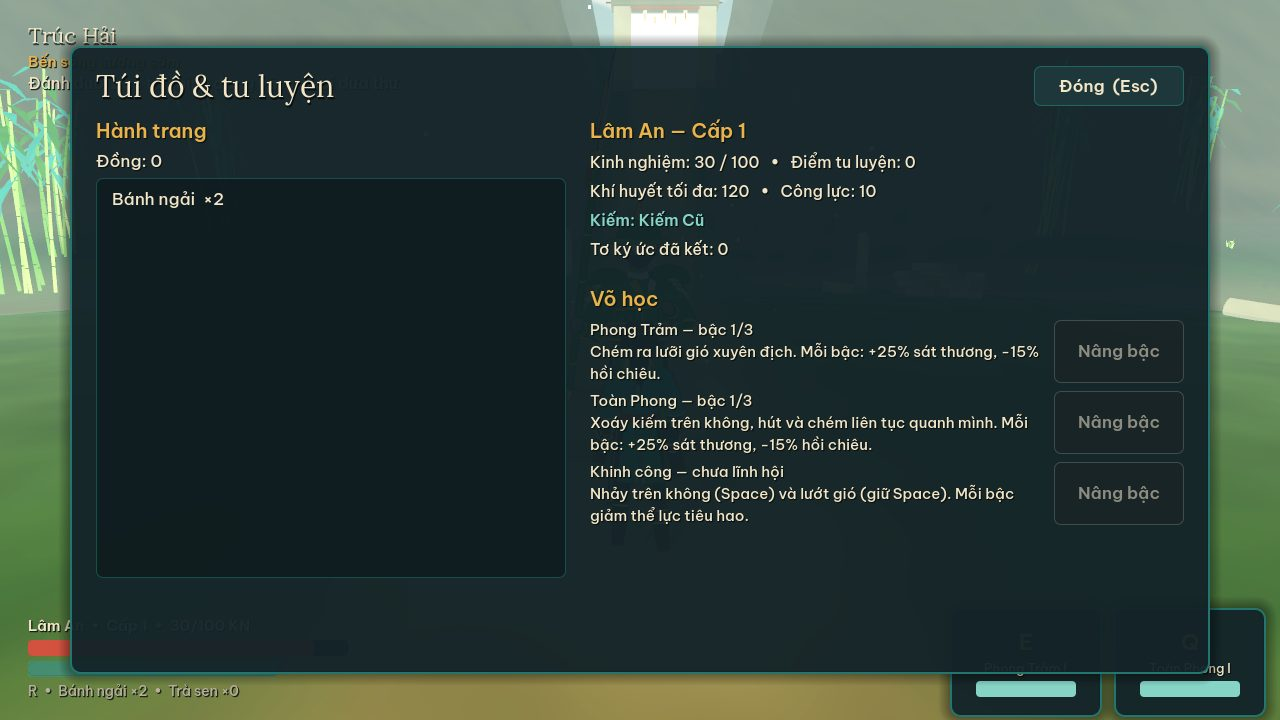
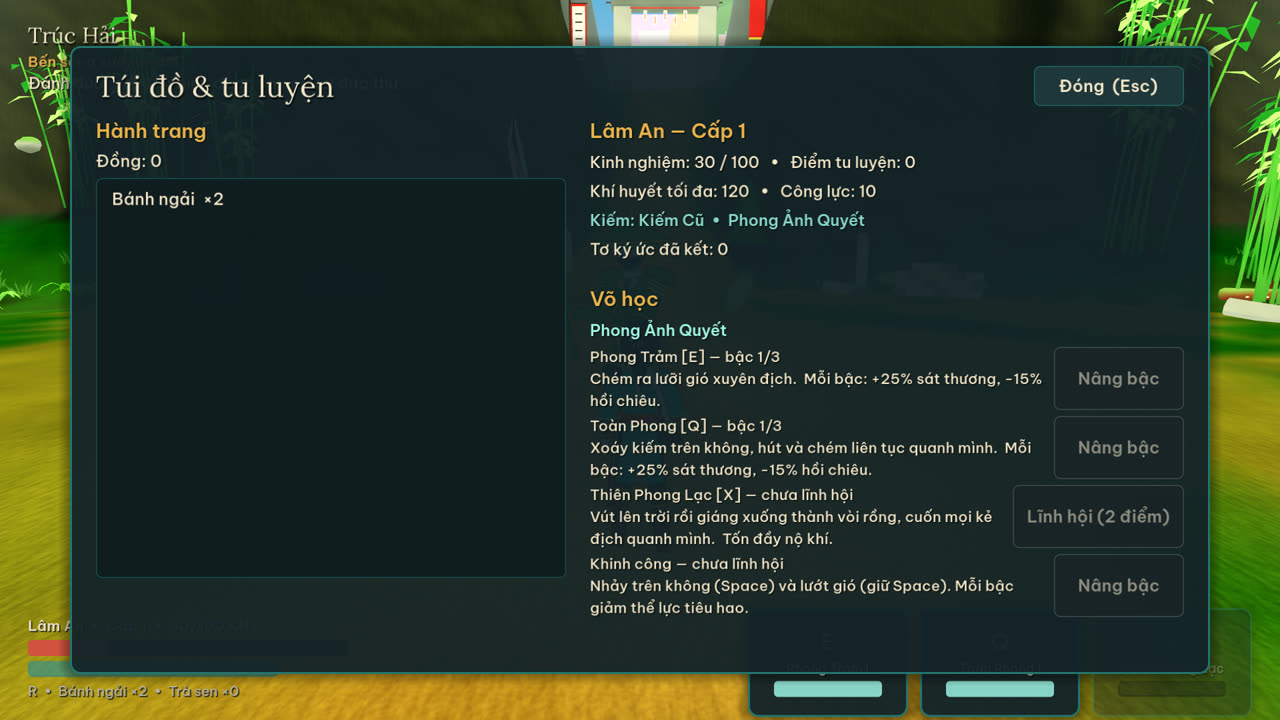
Docs and screenshots for the web build, elemental styles and long-term systems
- game-design: elemental style table, long-term loops (Endless Trial, World Tiers,
  Kỳ Ngộ with published rates and pity, rolled swords, outfits, daily missions);
  replaces the old "no gacha" note now that the owner approved it.
- architecture: web target, new combat, profile and retention modules, save v3 and
  the shared profile, how stats, the Trial pocket, tiers and the gacha fit together.
- validation: 185/185 across four suites, web build size and Chromium smoke result,
  Vercel previews; progress: new milestones and known limits.
- Screenshots re-rendered, including Kỳ Ngộ, the Trial, armory, daily missions and
  World Tier; the move sheet now shows ten moves. The preview clears the live sword
  trail before posing moves, and the gacha test seeds its profile RNG.

Claude-Session: https://claude.ai/code/session_018HWxVq7Mo8cUy4Wb7m4WHu

diff --git a/docs/architecture.md b/docs/architecture.md
@@ -1,24 +1,25 @@
 # Kiến trúc
 
-Godot 4.7.2, GDScript có kiểu tĩnh, renderer GL Compatibility, bàn phím + chuột, mục tiêu Windows desktop. Không dùng autoload: `scenes/main.tscn` chỉ có node gốc `main.gd`, mọi hệ thống được tạo bằng code và nối với nhau ở đó. Nội dung (nhiệm vụ, hội thoại, vật phẩm, địch, bản đồ) nằm trong JSON dưới `data/`, code chỉ chứa luật.
+Godot 4.7.2, GDScript có kiểu tĩnh, renderer GL Compatibility (một renderer cho cả hai nền tảng), bàn phím + chuột, mục tiêu Windows desktop và trình duyệt (bản Web không luồng, host tĩnh trên Vercel). Không dùng autoload: `scenes/main.tscn` chỉ có node gốc `main.gd`, mọi hệ thống được tạo bằng code và nối với nhau ở đó. Nội dung (nhiệm vụ, hội thoại, vật phẩm, địch, bản đồ) nằm trong JSON dưới `data/`, code chỉ chứa luật.
 
 ## Thành phần
 
 | Nhóm | File | Trách nhiệm |
 |---|---|---|
 | Gốc | `scripts/main.gd` | Luồng màn hình chính → chơi; nối người chơi, thế giới, thực thể, nhiệm vụ, hội thoại, UI, âm thanh; phần thưởng, chết/hồi sinh, lưu/tải, thoát game |
-| Dữ liệu | `scripts/core/content_db.gd`, `game_state.gd`, `user_settings.gd` | Đọc JSON có cache; trạng thái người chơi (cờ, túi đồ, nhiệm vụ, cấp, kỹ năng, kiếm, checkpoint); thiết lập lưu riêng ở `user://settings.cfg` |
+| Dữ liệu | `scripts/core/content_db.gd`, `game_state.gd`, `user_settings.gd` | Đọc JSON có cache; trạng thái người chơi (cờ, túi đồ, nhiệm vụ, cấp, kỹ năng, kiếm, cảnh giới, checkpoint); thiết lập lưu riêng ở `user://settings.cfg`; preset chất lượng Thấp/Trung bình/Cao |
+| Hồ sơ & dài hạn | `scripts/core/player_profile.gd`, `player_stats.gd`, `gacha.gd`, `missions.gd` | Hồ sơ dùng chung mọi bản lưu (`user://profile.json`): tiền, bảo hiểm, kho kiếm, trang phục, kỷ lục Ải, nhiệm vụ ngày, trạng thái RNG; gộp chỉ số kiếm + phúc lành; quay Kỳ Ngộ và mở rương; nhiệm vụ ngày và điểm danh. Các hàm tĩnh, không chạm scene tree |
 | Người chơi | `scripts/player_controller.gd`, `scripts/player/camera_rig.gd` | Máy trạng thái loading/move/dodge/action/hit/dead/disabled, đệm phím, thể lực, khinh công, khóa mục tiêu; camera SpringArm có rung theo "trauma" |
-| Chiến đấu | `scripts/combat/combat.gd`, `projectile.gd`, `vfx.gd` | Bảng đòn đánh (gộp thời điểm từ `data/anim_timings.json`), quét cung bằng `PhysicsShapeQueryParameters3D`, gói sát thương, lớp va chạm, đạn gió, hiệu ứng |
+| Chiến đấu | `scripts/combat/combat.gd`, `style_book.gd`, `skill_runner.gd`, `area_effect.gd`, `status_effects.gd`, `projectile.gd`, `vfx.gd`, `sword_trail.gd` | Bảng đòn đánh từ `data/attacks.json` (gộp thời điểm từ `data/anim_timings.json`), quét cung bằng `PhysicsShapeQueryParameters3D`, gói sát thương mang nguyên tố và trạng thái; 5 hệ kiếm E/Q/X chạy theo trường `kind` (sweep, dash, projectile, chain, strikes, nova, field); trạng thái gió/ướt/tê/thiêu/lạnh/đóng băng; đạn, hiệu ứng, vệt kiếm |
 | Nhân vật | `scripts/characters/character_visual.gd` | Dựng `AnimationTree` (BlendSpace1D di chuyển, Transition trạng thái, OneShot đòn đánh), gắn vũ khí vào `BoneAttachment3D`, nháy trắng khi trúng đòn, hit-stop |
-| Địch | `scripts/enemies/enemy.gd`, `boar.gd`, `guardian.gd` | AI theo trạng thái, giới hạn số kẻ tấn công cùng lúc mỗi trại, NavigationAgent hoặc lái tránh vật cản, kéo về khi đi quá xa; heo húc; Trúc Tướng hai pha |
-| Thế giới | `scripts/world/world_layout.gd`, `scripts/world_manager.gd`, `scripts/world_chunk.gd` | Hàm độ cao/màu/vùng từ `layout.json`; stream vùng 32 m (5 × 5 quanh người chơi), tính mesh trên `WorkerThreadPool`, dựng node trên main thread |
-| Thực thể | `scripts/world/entity_spawner.gd`, `npc.gd`, `interactable.gd`, `arena.gd`, `prop_placer.gd`, `water_bodies.gd`, `backdrop.gd` | Sinh/hủy NPC, địch, vật tương tác theo khoảng cách và điều kiện; trigger, điểm khám phá, bake navmesh theo vùng giao tranh; đấu trường; đạo cụ; sông suối; núi nền |
+| Địch | `scripts/enemies/enemy.gd`, `boar.gd`, `guardian.gd`, `enemy_scaler.gd` | AI theo trạng thái, giới hạn số kẻ tấn công cùng lúc mỗi trại, NavigationAgent hoặc lái tránh vật cản, kéo về khi đi quá xa; heo húc; Trúc Tướng hai pha; tăng sức mạnh theo cảnh giới/đợt và biến thành tinh anh trên bản sao dữ liệu riêng |
+| Thế giới | `scripts/world/world_layout.gd`, `scripts/world_manager.gd`, `scripts/world_chunk.gd` | Hàm độ cao/màu/vùng từ `layout.json`; stream vùng 32 m (5 × 5 quanh người chơi, preset Cao 7 × 7), tính mesh và rải thực vật theo `data/world/flora.json` trên `WorkerThreadPool`, dựng node trên main thread |
+| Thực thể | `scripts/world/entity_spawner.gd`, `npc.gd`, `interactable.gd`, `arena.gd`, `prop_placer.gd`, `water_bodies.gd`, `backdrop.gd`, `trial_director.gd` | Sinh/hủy NPC, địch, vật tương tác theo khoảng cách và điều kiện (theo cảnh giới: `tier_dead:<cấp>:<id>`); trigger, điểm khám phá, bake navmesh theo vùng giao tranh; đấu trường; đạo cụ; sông suối; núi đá vôi nền; Ải Vô Tận (đợt, phúc lành, rương) |
 | Nhiệm vụ | `scripts/quests/quest_manager.gd` | Bắt đầu/tiến độ/hoàn thành theo sự kiện chuỗi (`talk:`, `reach:`, `kill:`, `interact:`, `camp_clear:`, `flag:`, `have:`…), điều kiện, điểm đánh dấu |
-| Giao diện | `scripts/game_hud.gd`, `scripts/ui/menus.gd`, `map_view.gd`, `ui_theme.gd` | HUD, hội thoại, thị kiến, la bàn mục tiêu; màn hình chính, tạm dừng, bản đồ, nhật ký, túi đồ, thiết lập, ghi công |
+| Giao diện | `scripts/game_hud.gd`, `scripts/ui/menus.gd`, `retention_panels.gd`, `map_view.gd`, `ui_theme.gd` | HUD (3 ô E/Q/X, nộ khí), hội thoại, thị kiến, la bàn mục tiêu; màn hình chính, tạm dừng, bản đồ, nhật ký, túi đồ, thiết lập, ghi công; Kỳ Ngộ, kho kiếm & trang phục, nhiệm vụ ngày, cảnh giới, chọn phúc lành |
 | Âm thanh | `scripts/audio/audio_director.gd` | Bus Music/SFX/Ambience/UI, chuyển nhạc theo vùng và mức chiến đấu, âm nền, tiếng sông theo khoảng cách, pool phát 2D/3D có biến thể |
-| Hình ảnh | `scripts/render/toon.gd`, `atmosphere.gd`, `shaders/*.gdshader` | Shader toon (bậc sáng, viền rim, nhiễu nét vẽ, cây đung đưa), outline đảo mặt, nước, bầu trời, tường gió; sương/nắng theo vùng |
-| Lưu game | `scripts/save_store.gd` | JSON schema v2, kiểm tra kiểu, migrate v1, ghi qua `.tmp`, giữ `.bak` |
+| Hình ảnh | `scripts/render/toon.gd`, `atmosphere.gd`, `ambient_fx.gd`, `shaders/*.gdshader` | Shader toon (bậc sáng, viền rim, nhiễu nét vẽ, màu đỉnh/instance, nắng lốm đốm dưới tán, cây đung đưa), outline đảo mặt, nước fresnel có bọt, trời mây cel, núi nền, tường gió; sương theo độ sâu/độ cao, glow, chỉnh màu; hạt bay theo vùng |
+| Lưu game | `scripts/save_store.gd` | JSON schema v3, kiểm tra kiểu, migrate v1/v2, ghi qua `.tmp`, giữ `.bak`; cùng cơ chế cho hồ sơ |
 
 ## Quy ước
 
@@ -31,12 +32,21 @@ Godot 4.7.2, GDScript có kiểu tĩnh, renderer GL Compatibility, bàn phím + 
 
 - Bản đồ hữu hạn, biên x ∈ [−132, 132], z ∈ [−462, 100]; ngoài biên là tường vô hình và núi nền.
 - Độ cao = đường cong theo z + nhiễu + nâng mép (bão hòa bằng `tanh`) + sống núi → làm phẳng khu đặt nhà/đấu trường → hạ đường đi → lòng sông → khe vực. Mép vùng khớp nhau vì mọi đỉnh lấy từ tọa độ thế giới.
-- `WorldChunk.compute()` là hàm tĩnh, không chạm scene tree, chạy trên `WorkerThreadPool` (tối đa 2 việc). `apply()` tạo mesh, collider, MultiMesh cây/cỏ/đá trên main thread. Người chơi đứng yên khi vùng dưới chân chưa sẵn sàng.
+- `WorldChunk.compute()` là hàm tĩnh, không chạm scene tree, chạy trên `WorkerThreadPool` (tối đa 2 việc; bản Web không luồng chạy tuần tự từng việc mỗi khung). Mỗi loài cây có RNG riêng nên đổi preset chỉ làm thưa cỏ hoa, cây có collider không dời chỗ; vùng cấm quanh NPC/rương/miếu/đạo cụ (`keepouts`). `apply()` tạo mesh, collider, MultiMesh cây/cỏ/đá trên main thread. Người chơi đứng yên khi vùng dưới chân chưa sẵn sàng.
 - Navmesh không phủ toàn bản đồ: mỗi khu giao tranh (`navzone`) được parse collider đã stream và bake bất đồng bộ khi người chơi đến gần 80 m.
 
 ## Lưu game
 
-`user://world_save.json`, schema v2: seed, vị trí, hướng, checkpoint, toàn bộ `GameState`. Giới hạn 1 MiB (thay cho 16 KB của bản nền — dữ liệu cờ/nhiệm vụ lớn hơn nhiều). Save v1 của bản nền được migrate (trạm đèn → Miếu Gió làng, gắn cờ `migrated_from_v1`), bản cũ giữ trong `.bak`. Tải save sửa lỗi vị trí nằm trong nước/vực/ngoài biên về checkpoint.
+`user://world_save.json`, schema v3: seed, vị trí, hướng, checkpoint, toàn bộ `GameState` (thêm danh sách kiếm, kiếm kho đang dùng, cảnh giới hiện tại/cao nhất). Giới hạn 1 MiB. Save v1 của bản nền và v2 đều được migrate, bản cũ giữ trong `.bak`. Tải save sửa lỗi vị trí nằm trong nước/vực/ngoài biên/đấu trường Ải về checkpoint. Trên web, `user://` là IndexedDB; game tự lưu mỗi 60 giây và khi mất focus.
+
+`user://profile.json` (hồ sơ v1) dùng chung cho mọi bản lưu vì Kỳ Ngộ mở được từ màn hình chính trước khi tải save. RNG của gacha lưu seed/state dạng chuỗi (số 64 bit), nên tải lại không quay lại được kết quả. Test luôn dùng `profile_path` riêng, không chạm hồ sơ thật.
+
+## Hệ thống dài hạn
+
+- **Chỉ số:** `PlayerStats.compute(kiếm kho, phúc lành)` → `GameState.stats`; rỗng là trung tính, nên số liệu cốt truyện giữ nguyên. Đọc trong `attack_power()`, `PlayerController.strike` (bạo kích, đòn thường, nguyên tố, tỉ lệ trạng thái, nộ khí), `_try_skill` (hồi chiêu), `take_damage` (giảm sát thương).
+- **Ải Vô Tận:** `TrialDirector` có `Arena` riêng tại "pocket" (0, 230) — một khu bằng phẳng ngoài tường biên (`WorldLayout.in_pocket`), chỉ tới được bằng dịch chuyển. Địch của Ải không nằm trong `EntitySpawner`, nên không ghi `dead:`/`camp_kills`. Chết trong Ải rẽ nhánh ở `_on_player_died`; lưu bị từ chối trong lượt.
+- **Cảnh giới:** `on_enemy_spawned` gọi `EnemyScaler` với hệ số từ `world_tiers.json`; boss dùng `boss_alive()` theo cấp.
+- **Gacha:** `Gacha.roll` là hàm thuần trên bản ghi bảo hiểm; tỉ lệ tổng hợp tính giải tích (`consolidated_ssr`) để công khai và để test 200.000 lượt đối chiếu.
 
 ## Mở rộng
 

diff --git a/docs/game-design.md b/docs/game-design.md
@@ -39,12 +39,25 @@ Mỗi nhiệm vụ có nguyên nhân, kết quả, phần thưởng và nhiệm 
 | Trọng kích | Giữ chuột trái 0,4 s; tốn thể lực, phá thế đỡ |
 | Né | Shift; có khung bất tử 0,03–0,34 s |
 | Đỡ / phản đòn | Chuột phải; bấm đúng lúc đòn tới (0,2 s đầu) để phản, làm địch choáng |
-| Phong Trảm | E; lưỡi gió bay xa (đạn) |
-| Toàn Phong | Q; xoáy kiếm quanh người, nhiều lần trúng |
+| Kiếm thức | E và Q: hai thức của hệ kiếm đang cầm (có hồi chiêu); X: tuyệt kỹ, tốn đầy thanh nộ khí |
 | Khóa mục tiêu | Chuột giữa / T |
 | Khinh công | Space trên không để bật nhảy; giữ Space khi rơi để lướt |
 
-Hệ thống có thể lực, hitbox/hurtbox theo cung quét, báo trước đòn đánh (vòng đỏ dưới đất), hit-stop, rung camera (giảm được trong cài đặt), số sát thương.
+Hệ thống có thể lực, hitbox/hurtbox theo cung quét, báo trước đòn đánh (vòng đỏ dưới đất), hit-stop, rung camera (giảm được trong cài đặt), số sát thương, vệt kiếm màu theo hệ.
+
+### Ngũ hành kiếm quyết
+
+Mỗi thanh kiếm thuộc một hệ; hệ quyết định ba thức E/Q/X (`data/styles.json`, `data/attacks.json`). Nộ khí (0–100) tăng khi đánh trúng, phản đòn và bị đánh; tuyệt kỹ X làm chậm thời gian một nhịp và bất tử tới khi ra đòn.
+
+| Hệ | Kiếm | E | Q | X | Trạng thái |
+|---|---|---|---|---|---|
+| Phong Ảnh Quyết | Kiếm Cũ, Thanh Trúc, Phong Ngân | Phong Trảm | Toàn Phong | Thiên Phong Lạc | Gió cuốn |
+| Thủy Nguyệt Quyết | Thủy Nguyệt Kiếm | Lưu Thủy Trảm | Xoáy Nước | Đại Hải Triều | Ướt |
+| Lôi Ảnh Quyết | Lôi Minh Kiếm | Lôi Thiểm | Lôi Võng | Thiên Lôi Giáng | Tê liệt |
+| Viêm Dương Quyết | Xích Viêm Kiếm | Viêm Luân | Hỏa Long Toàn | Nhật Viêm Trảm | Thiêu đốt |
+| Hàn Sương Quyết | Hàn Sương Kiếm | Băng Tiễn | Sương Giá Trận | Hàn Băng Thiên Kiếm | Lạnh cóng, 3 lớp thì đóng băng |
+
+Có kiếm của hệ nào thì học được E và Q của hệ đó; X học bằng 2 điểm tu luyện khi đã có Q. Boss kháng trạng thái và không bị đóng băng.
 
 Kẻ địch:
 
@@ -57,12 +70,24 @@ Chưa có: địch bắn xa, địch khiên nặng, boss hai pha cuối chương
 ## Phát triển nhân vật
 
 - Lên cấp theo bảng `XP_CURVE` (`scripts/core/game_state.gd`); mỗi cấp +14 máu, +1,5 công và 1 điểm tu luyện để nâng kỹ năng (tối đa bậc 3) trong Túi đồ.
-- Kiếm: Kiếm Cũ (10) → Thanh Trúc Kiếm (16) → Phong Ngân Kiếm (24).
+- Kiếm cốt truyện: Kiếm Cũ (10) → Thanh Trúc Kiếm (16) → Phong Ngân Kiếm (24). Bốn kiếm nguyên tố (26–27) nhận khi lần đầu vượt đợt 5, 10, 15, 20 của Ải Vô Tận; bản có độ hiếm và chỉ số phụ đến từ Kỳ Ngộ và rương thưởng.
 - Hồi máu: Bánh ngải, Trà sen (phím R). Miếu Gió hồi đầy máu, làm điểm hồi sinh, lưu tự động và đặt lại trại địch.
 - Vật phẩm nhiệm vụ / chìa khóa: thư, chuông gió, nhật ký, Lông vũ gió, Tơ ký ức, Ngọc phong ấn.
 
-Không có gacha. Nếu muốn thêm cần chủ dự án duyệt trước.
+## Chơi dài hạn
+
+Chủ dự án đã duyệt (10/2026) thêm các vòng lặp dưới đây. Cốt truyện không đổi; mọi phần thưởng chỉ dùng tiền trong game.
+
+- **Ải Vô Tận** (`data/trial.json`): bia đá cạnh Miếu Gió làng, mở sau "Làng quên tên". Đấu trường trên đỉnh núi ngoài tường thung lũng. Mỗi đợt đông và mạnh hơn (+12% máu, +6% sát thương mỗi đợt), tinh anh từ đợt 3, Trúc Tướng mỗi 5 đợt. Sau mỗi đợt chọn 1 trong 3 phúc lành (công lực, bạo kích, giảm sát thương, hồi chiêu…). Gục ngã hoặc rời Ải đều nhận đủ Ngọc Gió, Đồng, kinh nghiệm đã tích lũy; rương thưởng mỗi 5 đợt. Không lưu game giữa lượt, không ghi cờ cốt truyện.
+- **Cảnh giới thế giới** (`data/world_tiers.json`): mở sau đoạn chơi mẫu, cấp 1–5. Địch và Trúc Tướng xuất hiện lại với máu ×1,7–7,5, sát thương ×1,35–3,2, nhiều kinh nghiệm và Đồng hơn, có tinh anh mang 1–3 ấn (`data/elites.json`). Hạ Trúc Tướng ở cấp cao nhất để mở cấp kế tiếp, nhận Ngọc Gió và Rương Cảnh Giới. Cấp 0 giữ nguyên trò chơi gốc.
+- **Kỳ Ngộ** (`data/gacha.json`): banner ở màn hình chính và menu tạm dừng. Tỉ lệ Cực phẩm 1,5% (≈2,4% tính cả bảo hiểm), Hiếm 10%, Thường 88,5%. Bảo hiểm tăng dần từ lượt 60, chắc chắn ở lượt 70; mỗi 10 lượt chắc chắn có Hiếm. Cực phẩm 50% ra kiếm nổi bật, trượt thì lần sau chắc chắn. Màn hình công khai tỉ lệ, bảo hiểm và 50 lượt gần nhất. Trang phục trùng đổi thành Mảnh Kỳ Ngộ để đổi phần thưởng cố định.
+- **Ngọc Gió** chỉ có từ Ải Vô Tận, boss cảnh giới, nhiệm vụ ngày và điểm danh 7 ngày; lần chơi đầu tặng đủ một lượt ×10. Không có giao dịch tiền thật.
+- **Kiếm có chỉ số** (`data/affixes.json`): Thường/Hiếm/Cực phẩm có 1/2/3 dòng (công lực, bạo kích, sát thương bạo kích, sát thương nguyên tố, tỉ lệ trạng thái, giảm hồi chiêu, nộ khí) và +0/10/20% công lực gốc.
+- **Trang phục** (`data/skins.json`): đổi màu áo, đai, ruy băng của Lâm An; ánh kiếm đổi màu phần phát sáng của lưỡi.
+- **Nhiệm vụ ngày** (`data/daily.json`): 4 nhiệm vụ mỗi ngày (hạ địch, tuyệt kỹ, phản đòn, trạng thái, rương, đợt Ải…), thưởng thêm khi xong cả 4.
+
+Tiền, bảo hiểm, kho kiếm, trang phục, kỷ lục Ải và nhiệm vụ ngày nằm trong hồ sơ dùng chung `user://profile.json`, không thuộc bản lưu nào.
 
 ## Giao diện
 
-Toàn bộ tiếng Việt. Màn hình chính (Mới / Tiếp tục), tạm dừng, bản đồ, nhật ký nhiệm vụ, túi đồ (kỹ năng, kiếm), cài đặt (đổi phím, độ nhạy chuột, đảo trục Y, âm lượng Nhạc/Hiệu ứng/Âm nền, giảm rung camera, chất lượng Thấp/Trung bình/Cao, toàn màn hình, số sát thương, HUD gỡ lỗi F3). HUD co giãn theo độ phân giải (cơ sở 1280 × 720).
+Toàn bộ tiếng Việt. Màn hình chính (Mới / Tiếp tục / Kỳ Ngộ / Nhiệm vụ ngày / Kho kiếm & trang phục), tạm dừng (thêm Cảnh giới thế giới, Rời Ải Vô Tận), bản đồ, nhật ký nhiệm vụ, túi đồ (kỹ năng theo hệ, kiếm), cài đặt (đổi phím, độ nhạy chuột, đảo trục Y, âm lượng Nhạc/Hiệu ứng/Âm nền, giảm rung camera, chất lượng Thấp/Trung bình/Cao, toàn màn hình, số sát thương, HUD gỡ lỗi F3). HUD co giãn theo độ phân giải (cơ sở 1280 × 720).

diff --git a/docs/validation.md b/docs/validation.md
@@ -1,4 +1,4 @@
-# Kết quả kiểm tra — 14/10/2026
+# Kết quả kiểm tra — 18/10/2026
 
 Phân biệt rõ: **đã chạy** (có log/ảnh) và **chưa chạy được** trong môi trường phát triển.
 
@@ -13,10 +13,16 @@ Phân biệt rõ: **đã chạy** (có log/ảnh) và **chưa chạy được** 
 | Bộ test | Lệnh | Kết quả |
 |---|---|---|
 | Import asset | `godot --headless --path . --editor --import` | Thành công |
-| Smoke test (bản nền, giữ nguyên độ bao phủ) | `tests/smoke_test.gd` | **29/29 PASS** |
-| Gameplay test (chơi trọn đoạn mẫu) | `tests/gameplay_test.gd` | **44/44 PASS** |
+| Smoke test (bản nền + thực vật, vùng cấm, preset) | `tests/smoke_test.gd` | **35/35 PASS** |
+| Gameplay test (chơi trọn đoạn mẫu) | `tests/gameplay_test.gd` | **48/48 PASS** |
+| Combat test (15 thức của 5 hệ, trạng thái, nộ khí) | `tests/combat_test.gd` | **53/53 PASS** |
+| Progression test (save v3, hồ sơ, gacha, nhiệm vụ ngày, Ải Vô Tận, cảnh giới) | `tests/progression_test.gd` | **49/49 PASS** |
 
-`./tools/run.ps1 -Mode test` (Windows) và `tools/run.sh test` chạy cả ba bước. CI GitHub Actions chạy trên `windows-latest`.
+Tổng **185/185 PASS**. `./tools/run.ps1 -Mode test` (Windows) và `tools/run.sh test` (Linux) chạy import rồi cả bốn bộ. CI GitHub Actions chạy trên `windows-latest`.
+
+**Combat test:** mỗi thức E/Q/X của 5 hệ khởi động, gây sát thương và gây đúng trạng thái; thiêu đốt gây sát thương theo thời gian không làm khựng; lạnh cóng làm chậm, 3 lớp thành đóng băng, boss không bị đóng băng; mục tiêu ướt chỉ nhận thêm sát thương sấm; tuyệt kỹ bị từ chối khi nộ khí chưa đầy và tiêu hết khi dùng; Phong Trảm vẫn bằng công lực × 1,6 như bản trước.
+
+**Progression test:** 200.000 lượt quay có tỉ lệ Cực phẩm 2,44% so với tỉ lệ tổng hợp công khai 2,43%; không chuỗi nào vượt lượt bảo hiểm 70; mỗi 10 lượt có Hiếm; trượt 50/50 thì lần sau chắc chắn ra kiếm nổi bật; thiếu Ngọc bị từ chối không đổi gì; bảo hiểm và kho kiếm còn nguyên sau khi tải lại hồ sơ; trang phục trùng đổi thành Mảnh; chỉ số phụ không trùng, đúng khoảng, đúng số dòng theo độ hiếm; nhiệm vụ ngày làm mới theo ngày, thưởng nhận một lần, điểm danh đứt chuỗi khi bỏ ngày. Cảnh thật: cổng Ải đưa vào đấu trường, đợt 1 có 3 địch, không lưu được trong lượt, xong đợt thì dừng ở bảng phúc lành mà Esc không đóng được, Kiếm Phong tăng đúng 15% đòn thường, Trúc Tướng đợt 5 có máu theo hệ số đợt, gục ngã thì về cổng, nhận thưởng và không ghi cờ cốt truyện; cảnh giới 1 Trúc Tướng có 1,7 lần máu, hạ xong ghi `tier_dead:1:` và mở cảnh giới 2; tinh anh có nhãn và không sửa dữ liệu dùng chung.
 
 **Smoke test:** nạp GLB, giới hạn pool vùng, va chạm mặt đất, tọa độ âm, seed tái lập, mép vùng khớp, di chuyển/nhảy/tiếp đất, HUD/menu trong viewport, tạm dừng, dịch chuyển xa và tái sử dụng node, checkpoint, lưu/tải qua luồng chính, backup, file hỏng, schema sai, tọa độ NaN/không phải số.
 
@@ -30,7 +36,7 @@ Phân biệt rõ: **đã chạy** (có log/ảnh) và **chưa chạy được** 
 
 ## Kiểm tra hình ảnh — đã chạy (renderer phần mềm)
 
-`tests/render_preview.gd` chụp các cảnh thật trong game ở 1280 × 720: bến sông, làng, hội thoại, giao tranh, Trúc Hải, Khe Gió, đấu trường, boss, bản đồ, nhật ký, túi đồ, thiết lập, ghi công, màn hình chính. Cảnh "moves" tua từng đòn tới giữa khung gây sát thương (lấy từ `data/anim_timings.json`) và chụp nhìn ngang. Đã kiểm tra bằng mắt: vật liệu toon, bóng, viền, vũ khí gắn tay, tư thế đòn khớp khung sát thương, chữ tiếng Việt đủ dấu, UI nằm trong khung hình.
+`tests/render_preview.gd` chụp các cảnh thật trong game (1920 × 1080, giao diện cơ sở 1280 × 720): bến sông, làng, hội thoại, giao tranh, Trúc Hải, Khe Gió, đấu trường, boss, bản đồ, nhật ký, túi đồ, thiết lập, ghi công, Kỳ Ngộ, kho kiếm, nhiệm vụ ngày, cảnh giới, Ải Vô Tận và bảng phúc lành. Cảnh "moves" tua từng đòn tới giữa khung gây sát thương (lấy từ `data/anim_timings.json`) và chụp nhìn ngang; một ảnh riêng chạy đòn thật ở tốc độ chậm để kiểm tra vệt kiếm. Đã kiểm tra bằng mắt: vật liệu toon, bóng, viền, vũ khí gắn tay, tư thế đòn khớp khung sát thương, chữ tiếng Việt đủ dấu, UI nằm trong khung hình.
 
 | | |
 |---|---|
@@ -39,8 +45,17 @@ Phân biệt rõ: **đã chạy** (có log/ảnh) và **chưa chạy được** 
 | ![Trúc Hải](screenshots/bamboo.jpg) | ![Khe Gió](screenshots/gorge.jpg) |
 | ![Trúc Tướng](screenshots/boss_slam.jpg) | ![Bản đồ](screenshots/map.jpg) |
 | ![Nhật ký](screenshots/journal.jpg) | ![Túi đồ](screenshots/inventory.jpg) |
+| ![Kỳ Ngộ](screenshots/gacha.jpg) | ![Kho kiếm & trang phục](screenshots/armory.jpg) |
+| ![Ải Vô Tận](screenshots/trial_wave.jpg) | ![Chọn phúc lành](screenshots/trial_pick.jpg) |
+| ![Nhiệm vụ ngày](screenshots/daily.jpg) | ![Cảnh giới thế giới](screenshots/tier.jpg) |
 
-![Tám đòn của Lâm An ở giữa khung gây sát thương: chuỗi 3 đòn, trọng kích, Phong Trảm, Toàn Phong, phản đòn, né](screenshots/moves.jpg)
+![Mười đòn của Lâm An ở giữa khung gây sát thương: chuỗi 3 đòn, trọng kích, Phong Trảm, Toàn Phong, phản đòn, né, lướt chém, tuyệt kỹ](screenshots/moves.jpg)
+
+## Bản Web — đã build, đã chạy trong Chromium, đã deploy preview
+
+- `tools/run.sh web` (cũng là lệnh build của Vercel qua `vercel.json`) tạo `build/web` **51 MB** trước nén: `index.wasm` 39,5 MB, `index.pck` 12,7 MB, `index.js` 0,3 MB. Bản không luồng nên không cần header COOP/COEP.
+- `tools/run.sh websmoke`: Playwright + Chromium (SwiftShader) mở bản build, tới màn hình chính sau ~5–7 s, vào chơi và đi bộ; **PASS**, không có `pageerror` hay `SCRIPT ERROR`. Cảnh báo duy nhất: navmesh làm tròn `agent_radius` (không ảnh hưởng).
+- Vercel (project `game-openworld`) tự build mỗi lần push nhánh; các bản preview của nhánh đều ở trạng thái READY. Preview đang bật Vercel Authentication nên chỉ tài khoản trong team xem được.
 
 ## Hiệu năng — chưa đo được trên GPU thật
 

diff --git a/docs/progress.md b/docs/progress.md
@@ -1,6 +1,6 @@
 # Tiến độ
 
-Cập nhật: 14/10/2026. Nhánh `claude/adoring-darwin-bwa9t8`. Đọc file này đầu mỗi phiên để biết đang ở đâu.
+Cập nhật: 18/10/2026. Nhánh `claude/busy-gates-bg5eb8`. Đọc file này đầu mỗi phiên để biết đang ở đâu.
 
 ## Tổng quan theo mốc
 
@@ -10,6 +10,10 @@ Cập nhật: 14/10/2026. Nhánh `claude/adoring-darwin-bwa9t8`. Đọc file nà
 | 2. Đoạn chơi mẫu 20–30 phút (Bến Vân Khê → Trúc Hải) | Xong về nội dung và test tự động; **chưa có người chơi thử thật** và **chưa đo hiệu năng trên GPU thật** |
 | 3. Hoàn thiện chương (Hồi 3, đủ nhiệm vụ, boss cuối) | Chưa bắt đầu |
 | 4. Đóng gói Windows | Đã có export preset, script tải template có kiểm tra SHA-512, bản build tạo được; **chưa chạy thử trên máy Windows** |
+| 5. Bản Web trên Vercel | Xong: preset Web không luồng, `tools/build_web.sh`, `vercel.json`; smoke test Chromium PASS; bản build 51 MB |
+| 6. Đồ họa theo concept | Xong: rừng dày (13 loài cây, cụm, vùng cấm), trời cel, núi đá vôi, nước, preset Thấp/Trung bình/Cao, 10 đạo cụ làng/đền, Lâm An và Trúc Tướng theo ảnh concept, hạt bay theo vùng, vệt kiếm |
+| 7. Ngũ hành kiếm quyết | Xong: 5 hệ × E/Q/X, 6 trạng thái, nộ khí, tuyệt kỹ, 4 kiếm nguyên tố, 2 clip mới, SFX |
+| 8. Chơi dài hạn | Xong: Ải Vô Tận, Cảnh giới 1–5 và tinh anh, Kỳ Ngộ (công khai tỉ lệ, bảo hiểm), rương thưởng, kiếm có chỉ số, trang phục, nhiệm vụ ngày, điểm danh 7 ngày; save v3 + hồ sơ dùng chung |
 
 ## Đã xong trong đoạn chơi mẫu
 
@@ -35,7 +39,7 @@ Review tự động theo 4 nhóm (người chơi/chiến đấu, địch/thế g
 
 ## Đang làm / làm tiếp ngay
 
-1. Người chơi thử thật đoạn mẫu trên Windows, ghi lại cảm giác điều khiển, độ khó, chỗ lạc đường.
+1. Chơi thử bản Web trên link preview Vercel và trên Windows: cảm giác điều khiển, độ khó các đợt Ải, nhịp Ngọc Gió (ước tính ~400–600 mỗi ngày chơi đều, tức một lượt ×10 sau 3–4 ngày), chỗ lạc đường.
 2. Đo hiệu năng 1080p Medium trên GPU thật bằng `./tools/run.ps1 -Mode preview` (làng đông, chuyển vùng, trận boss) và ghi vào `validation.md`.
 3. Chạy bản build `build/windows/VanKhe.exe` trên Windows sạch (không có Godot/Blender).
 
@@ -44,6 +48,8 @@ Review tự động theo 4 nhóm (người chơi/chiến đấu, địch/thế g
 - Nhạc soạn bằng code và render qua soundfont General MIDI: dùng được nhưng nên được người có chuyên môn nghe duyệt; coi là **bản tạm có thể thay**.
 - Chưa có lồng tiếng (đúng phạm vi chương đầu).
 - Model low-poly dựng bằng script, không texture vẽ tay; mặt/tóc còn đơn giản. Animation keyframe tay; các đòn chính nên được animator chỉnh lại.
+- Cân bằng Ải Vô Tận và Cảnh giới mới qua test tự động, chưa qua người chơi thật; số liệu nằm hết trong `data/*.json` để chỉnh nhanh.
+- Bản Web tải ~51 MB (wasm 39,5 MB, pck 12,7 MB) trước khi nén; Vercel nén khi truyền.
 - Chỉ có 2 loại địch thường + 1 miniboss (mục tiêu chương: 6 mẫu thuộc 4 nhóm — thiếu nhóm đánh xa và hộ vệ nặng).
 - Điều khiển chỉ hỗ trợ bàn phím + chuột; chưa hỗ trợ gamepad.
 - Hiệu năng chỉ đo được trên renderer phần mềm (llvmpipe) trong môi trường phát triển, không có ý nghĩa cho mục tiêu 60 FPS.
